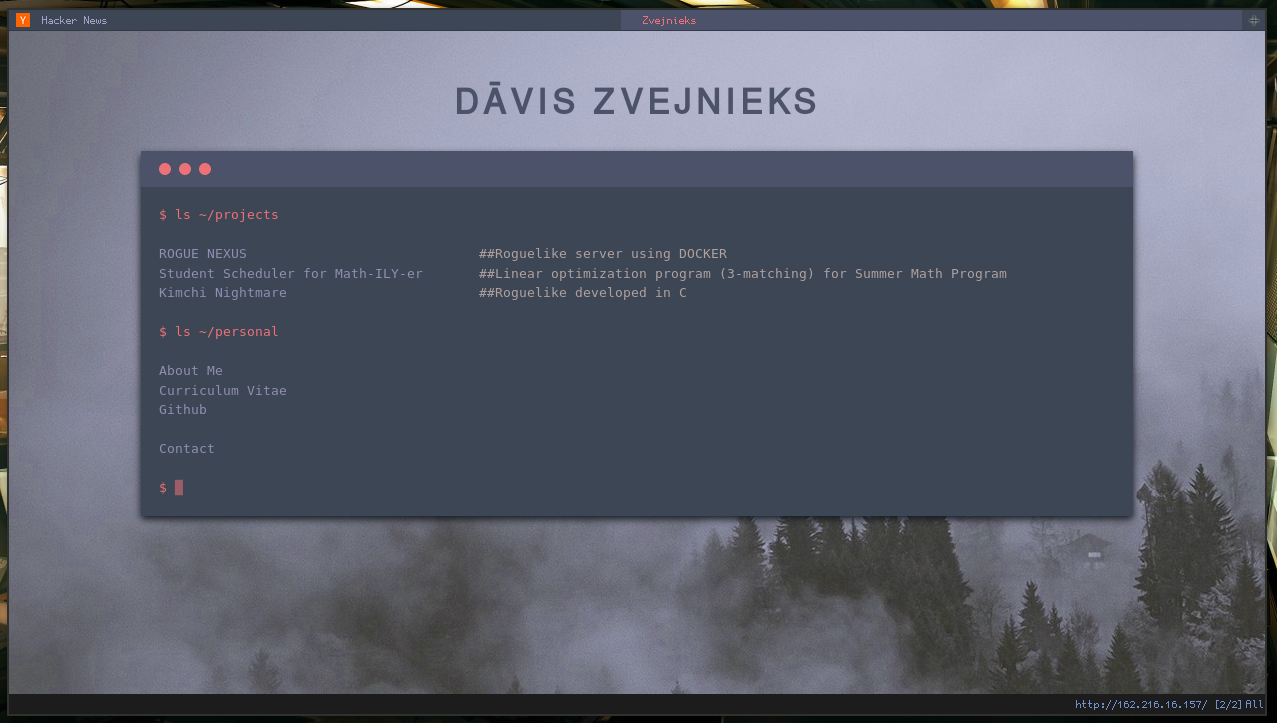
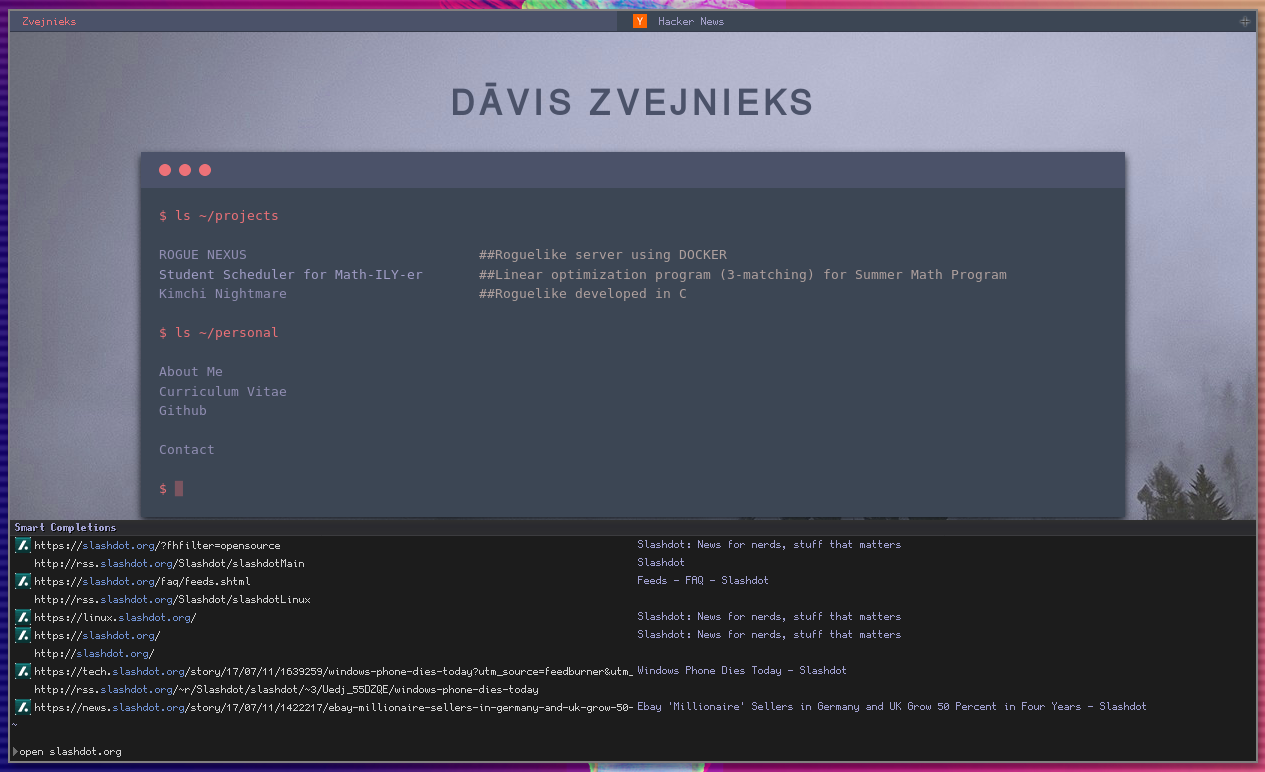
Added new screenshot, added info to README

diff --git a/README.md b/README.md
@@ -23,5 +23,7 @@ Terminal font used is gohufont, it's bitmap. I use rxvt-unicode.
 ## Firefox
 In addition to that, I have some customized Firefox userchrome.css files, that were based on [twily's](http://twily.info/) comprehensive edits. I had to make some edits to fix some issues his configs had with later versions of Firefox (50+). This, however, made things a bit uglier.
 
+Also, the screenshot shown displays some of the customization for vimperator, which is included in this repo.
+
 <img src="/img/firefox_1.png" width="766">
 
